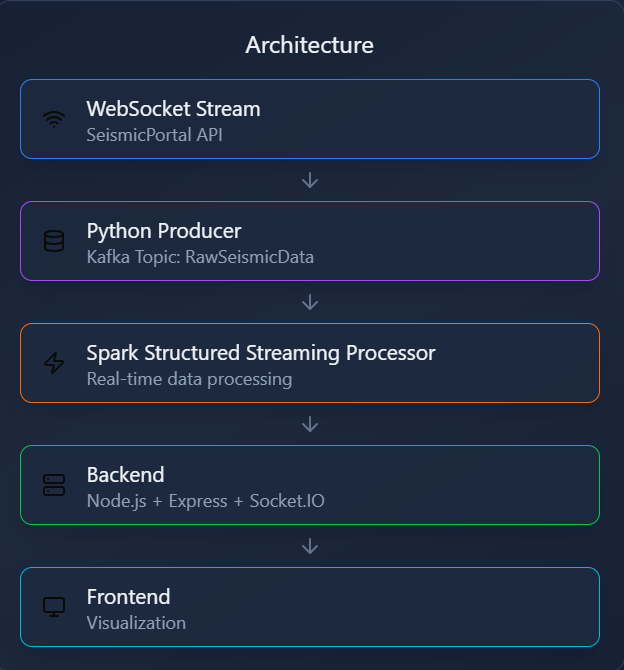
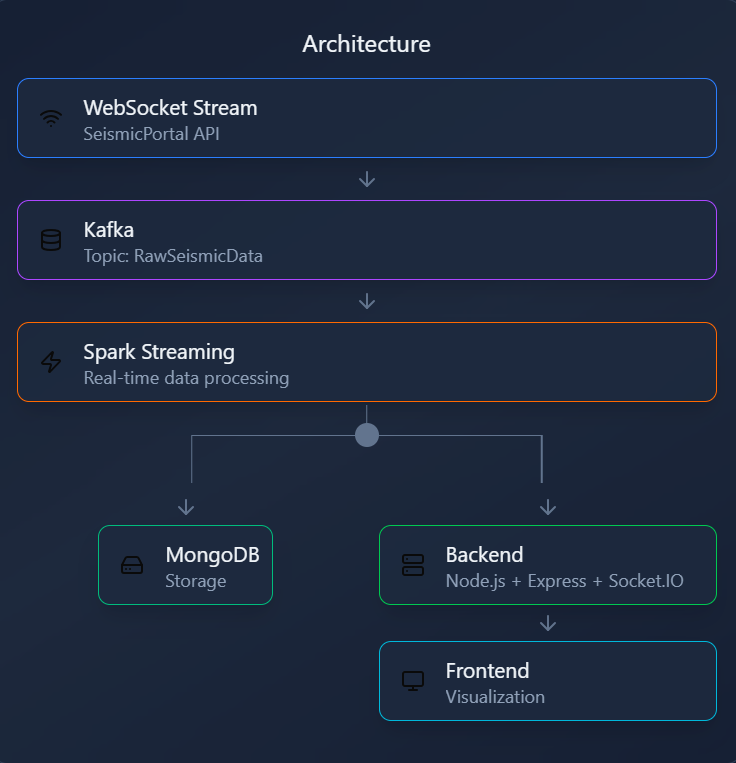
project files

diff --git a/spark_streaming_processor.py b/spark_streaming_processor.py
@@ -1,13 +1,14 @@
 from pyspark.sql import SparkSession
 from pyspark.sql.functions import from_json, col
 from pyspark.sql.types import StructType, StructField, StringType, DoubleType
+from pymongo import MongoClient
 import os
 import time
 
 # Set Spark local IP
 os.environ['SPARK_LOCAL_IP'] = '127.0.0.1'
 
-# Minimal Spark session
+# Create Spark session
 spark = SparkSession.builder \
     .appName("SeismicProcessor") \
     .master("local[1]") \
@@ -18,7 +19,7 @@ spark = SparkSession.builder \
 
 spark.sparkContext.setLogLevel("ERROR")
 
-# Full schema
+# Define schema for Kafka JSON data
 schema = StructType([
     StructField("action", StringType(), True),
     StructField("mag", DoubleType(), True),
@@ -38,39 +39,42 @@ print("Connecting to Kafka (localhost:9092)...")
 print("=" * 70)
 print()
 
-# Keep track of already displayed events
+# Connect to MongoDB
+mongo_client = MongoClient("mongodb://localhost:27017/")
+db = mongo_client["seismicDB"]
+collection = db["events"]
+
+# Track unique events
 processed_events = set()
 event_count = 0
 
 while True:
     try:
-        # Read all current messages from Kafka
+        # Read messages from Kafka
         df = spark.read \
             .format("kafka") \
             .option("kafka.bootstrap.servers", "localhost:9092") \
             .option("subscribe", "RawSeismicData") \
             .option("startingOffsets", "earliest") \
             .load()
-        
+
         if df.count() > 0:
-            # Parse JSON
+            # Parse JSON payload
             json_df = df.selectExpr("CAST(value AS STRING) as json") \
                 .select(from_json(col("json"), schema).alias("data")) \
                 .select("data.*") \
                 .filter(col("mag") >= 2.0)
-            
-            # Collect events
+
+            # Collect new events
             events = json_df.collect()
-            
-            # Display only new events
+
             for event in events:
-                # Unique ID based on time + coordinates
                 event_id = f"{event.time}_{event.lat}_{event.lon}"
-                
+
                 if event_id not in processed_events:
                     processed_events.add(event_id)
                     event_count += 1
-                    
+
                     print("=" * 70)
                     print(f"EVENT #{event_count}")
                     print("=" * 70)
@@ -86,21 +90,41 @@ while True:
                         print(f"  Action         : {event.action}")
                     print("=" * 70)
                     print()
-        
-        # Wait 5 seconds before next read
+
+                    # Store unique event into MongoDB
+                    event_doc = {
+                        "event_id": event_id,
+                        "magnitude": event.mag,
+                        "region": event.flynn_region,
+                        "time": event.time,
+                        "latitude": event.lat,
+                        "longitude": event.lon,
+                        "depth": event.depth,
+                        "magtype": event.magtype,
+                        "action": event.action
+                    }
+
+                    # Insert only if not already stored
+                    if not collection.find_one({"event_id": event_id}):
+                        collection.insert_one(event_doc)
+                        print("Inserted into MongoDB.")
+                    else:
+                        print("Already exists in MongoDB.")
+
+        # Wait before next poll
         time.sleep(5)
-        
+
     except KeyboardInterrupt:
         print("\n" + "=" * 70)
-        print("PIPELINE STOPPED")
+        print("PIPELINE STOPPED BY USER")
         print("=" * 70)
         print(f"Total unique events processed: {event_count}")
         print("=" * 70)
         break
-        
+
     except Exception as e:
         print(f"Error: {e}")
         time.sleep(5)
 
 spark.stop()
-print("Spark stopped cleanly")
+print("Spark stopped cleanly.")

diff --git a/README.md b/README.md
@@ -34,6 +34,34 @@ It streams earthquake data from the **SeismicPortal WebSocket API**, ingests it 
 - Prints unique events to console by removing duplicates using event IDs
 - Optionally counts the total number of processed events
 
+### MongoDB
+
+MongoDB serves as the persistent storage layer for the pipeline.
+- Every seismic event processed by Spark is stored as a unique document in the database.
+- This ensures that even if the Kafka stream is temporary or the app restarts, the historical seismic data remains available for future use — such as analytics, reporting, or machine learning.
+
+- Database and Collection:
+```bash
+Database: seismicDB
+```
+```bash
+Collection: events
+```
+
+Document Example:
+```bash
+{
+  "event_id": "69149a03d8a20a5230469a88",
+  "magnitude": 5.2,
+  "region": "CYPRUS REGION",
+  "time": "2025-11-12T14:23:32.15Z",
+  "latitude": 34.6858,
+  "longitude": 32.4874,
+  "depth": 3.3,
+  "magtype": "ml",
+  "action": "update"
+}
+```
 ### Seismic Real-Time Dashboard
 #### Backend (Node.js + Express + Socket.IO)
 
